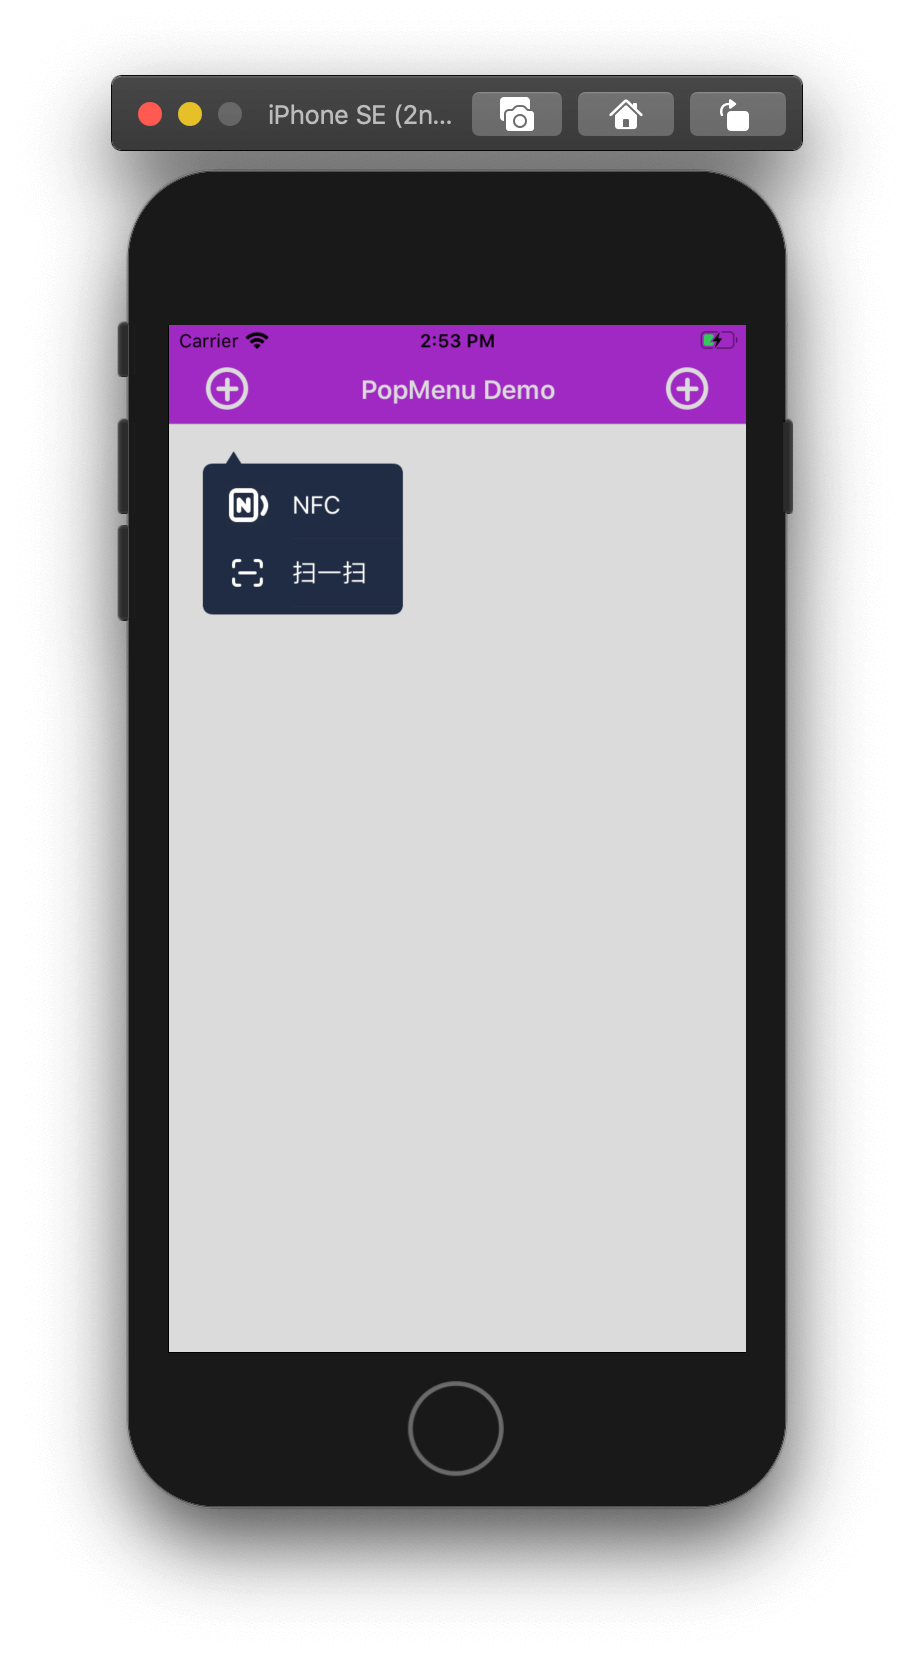
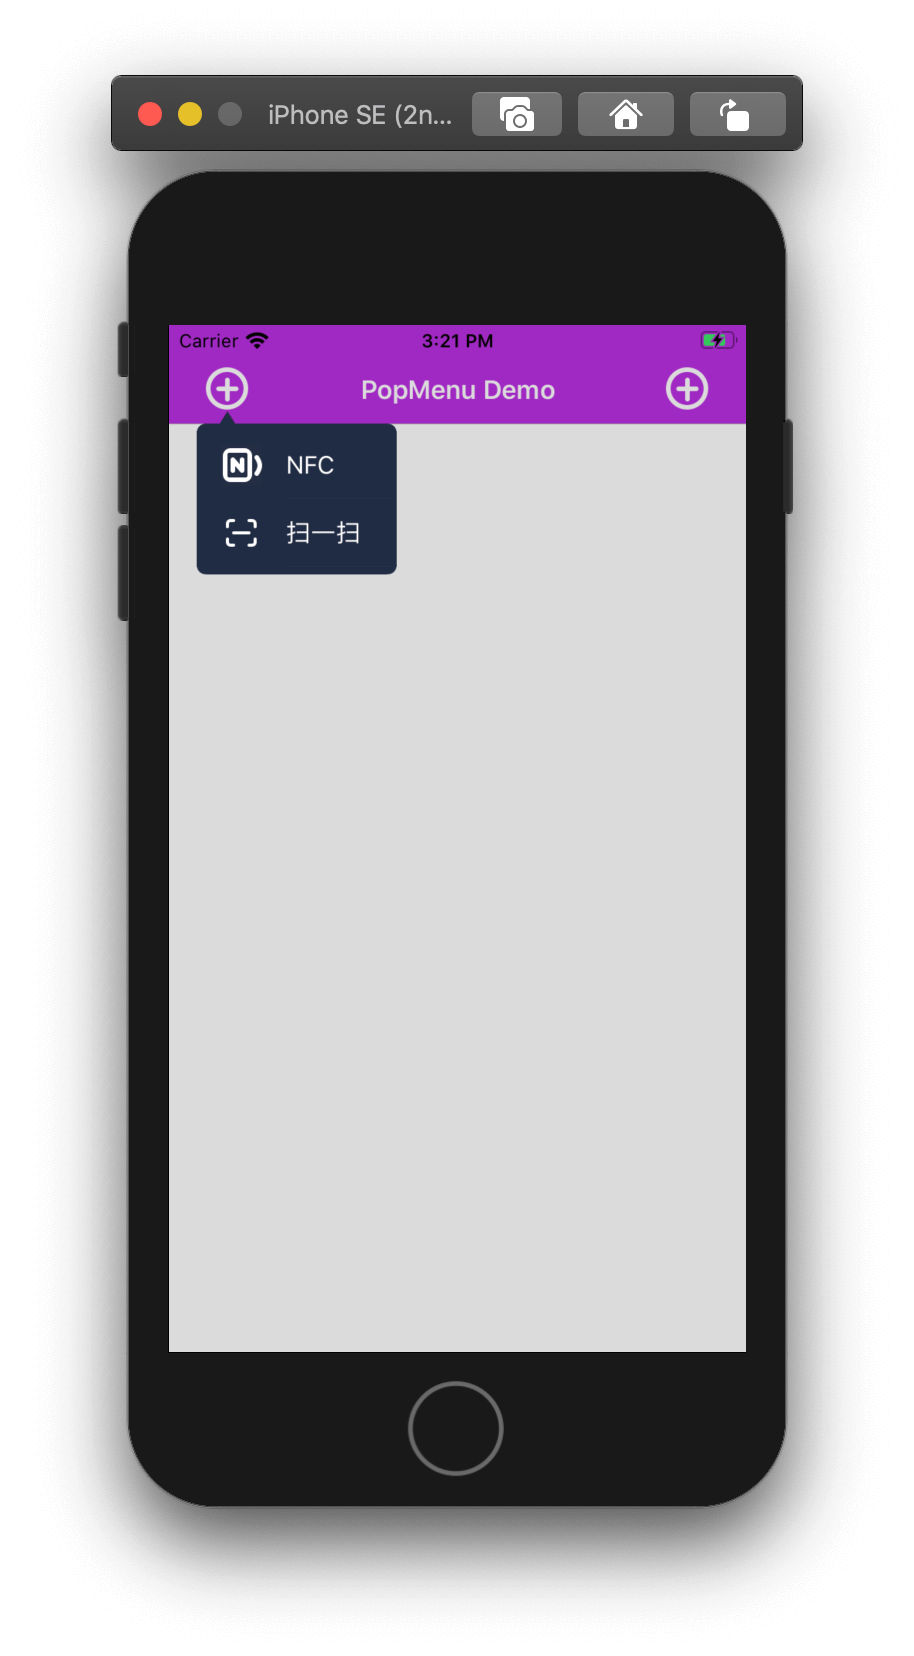
Update README.md for more doc and usage.

Changed region(s): [[0.2144, 0.2464, 0.4595, 0.3696], [0.4595, 0.1848, 0.5514, 0.2156]]

diff --git a/PopMenu/ViewController.swift b/PopMenu/ViewController.swift
@@ -22,13 +22,13 @@ class ViewController: UIViewController {
     configuration.animationDuration = 0.15
     configuration.itemTextColor = .orange
 
-    let menuView = PopMenuView(dataArray: menus, origin: CGPoint(x: view.frame.width - 42, y: 80), size: CGSize(width: 130, height: 44), direction: .right, configuration: configuration)
+    let menuView = PopMenuView(dataArray: menus, origin: CGPoint(x: view.frame.width - 38, y: UIApplication.shared.statusHeight + 34), size: CGSize(width: 130, height: 44), direction: .right, configuration: configuration)
     menuView.delegate = self
     return menuView
   }()
 
   private lazy var leftMenuView: PopMenuView = {
-    let menuView = PopMenuView(dataArray: menus, origin: CGPoint(x: 42, y: 80), size: CGSize(width: 130, height: 44), direction: .left)
+    let menuView = PopMenuView(dataArray: menus, origin: CGPoint(x: 38, y: UIApplication.shared.statusHeight + 34), size: CGSize(width: 130, height: 44), direction: .left)
     menuView.delegate = self
     // 可以选择 callback 的方式
     menuView.clickCallback = {(_, index, item) in

diff --git a/Source/PopMenuView.swift b/Source/PopMenuView.swift
@@ -71,6 +71,12 @@ public class PopMenuView: UIView {
   }
 
   init(dataArray: [PopMenuItem], origin: CGPoint, size: CGSize, direction: PopMenuDirection, configuration: PopMenuConfiguration = PopMenuConfiguration()) {
+    // Check whether configuration is legal, eg: arrowOffset or arrowSize
+    assert(configuration.arrowOffset > 0, "The arrowOffset must be greater than zero.")
+    assert(configuration.arrowSize > 0, "The arrowSize must be greater than zero.")
+    assert(configuration.arrowOffset + configuration.arrowSize * 0.5 < size.height)
+    assert(configuration.arrowOffset - configuration.arrowSize * 0.5 > 0)
+    
     self.configuration = configuration
     self.direction = direction
     self.origin = origin

diff --git a/README.md b/README.md
@@ -9,6 +9,31 @@
 pod 'JHPopMenu', '~> 0.0.2beta'
 ```
 
+## Doc
+
+### PopMenuConfiguration 支持多种自定义配置项
+
+``` swift
+public struct PopMenuConfiguration {
+  var arrowSize: CGFloat = 10           // 箭头大小
+  var arrowOffset: CGFloat = 20         // 箭头和目标视图的距离
+
+  var animationDuration: Double = 0.15  // 动画时长
+  var cornerRadius: CGFloat = 6         // 菜单的圆角
+  var separatorColor: UIColor = .black  // 分割线颜色
+  var fillColor: UIColor = UIColor(hexString: "#202B43")       // 菜单的背景填充色
+
+  var itemFont: UIFont = UIFont.systemFont(ofSize: 16)         // 菜单项的字体
+  var itemHeight: CGFloat = 44          // 菜单项的高度
+  var itemTextColor: UIColor = .white   // 菜单项文本颜色
+}
+```
+
+### 支持 delegate 和 block
+
+* 可以选择实现 `PopMenuViewDelegate` 的协议方法，从而获取点击项相关事件
+* 也可以选择使用 `PopMenuClickCallback`，即 `clickCallback` 直接调用
+
 ## Usage
 
 ``` swift
@@ -36,6 +61,10 @@ private lazy var menuView: PopMenuView = {
 
   let menuView = PopMenuView(dataArray: menus, origin: CGPoint(x: view.frame.width - 152, y: 80), size: CGSize(width: 130, height: 44), direction: .left, configuration: configuration)
   menuView.delegate = self
+  // 可以选择 callback 的方式
+    menuView.clickCallback = {(_, index, item) in
+      print("第 \(index) 个 item, \(item)")
+    }
   return menuView
 }()
 
